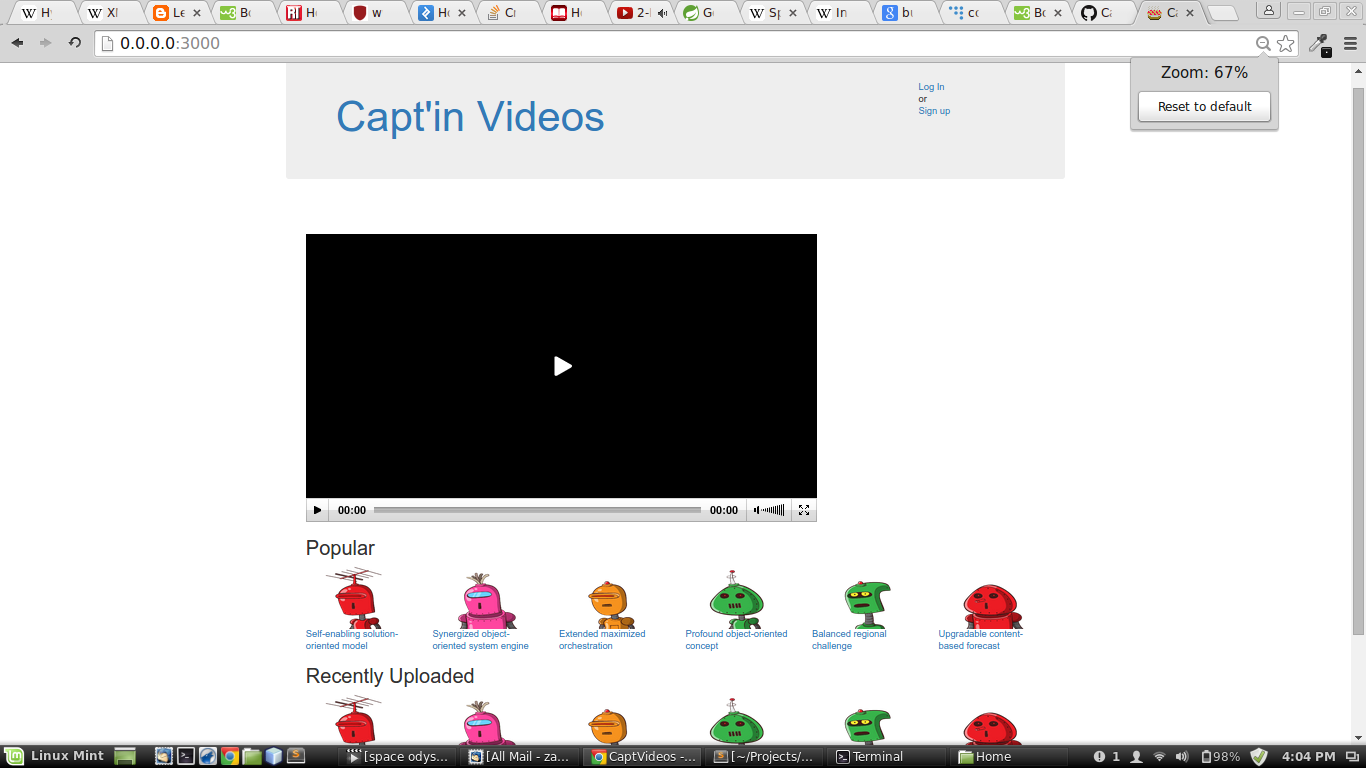
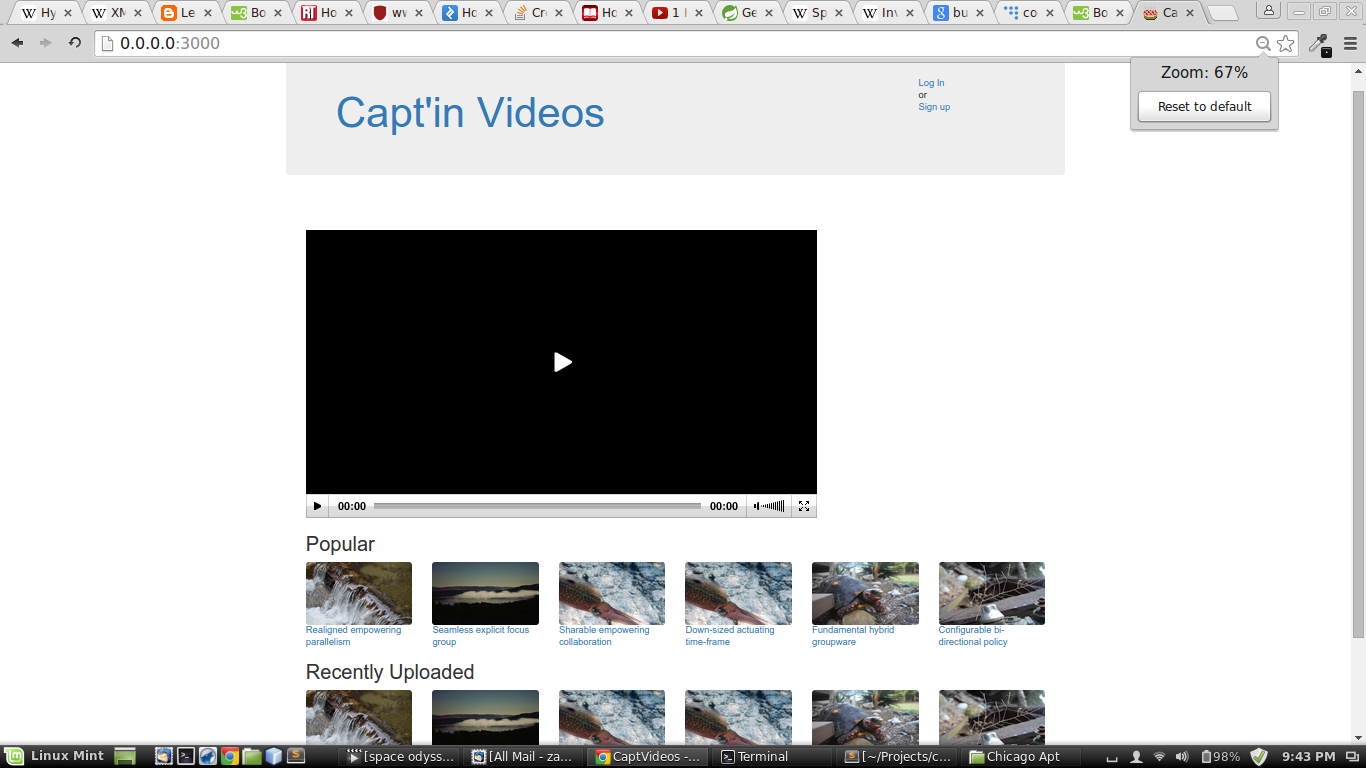
update README with improved pictures and descriptions

diff --git a/README.md b/README.md
@@ -22,4 +22,9 @@ While this site is currently a work in progress, it has been deployed to [heroku
 
 ![landing page](https://raw.githubusercontent.com/Carpk/capt_videos/master/app/assets/images/landing_page.png)
 
+The Landing page, video player will probably be removed.
+
+
 ![video page](https://raw.githubusercontent.com/Carpk/capt_videos/master/app/assets/images/video_page.png)
+
+Video page, shows uploader and additional videos from uploader. Also videos with matching tags.
